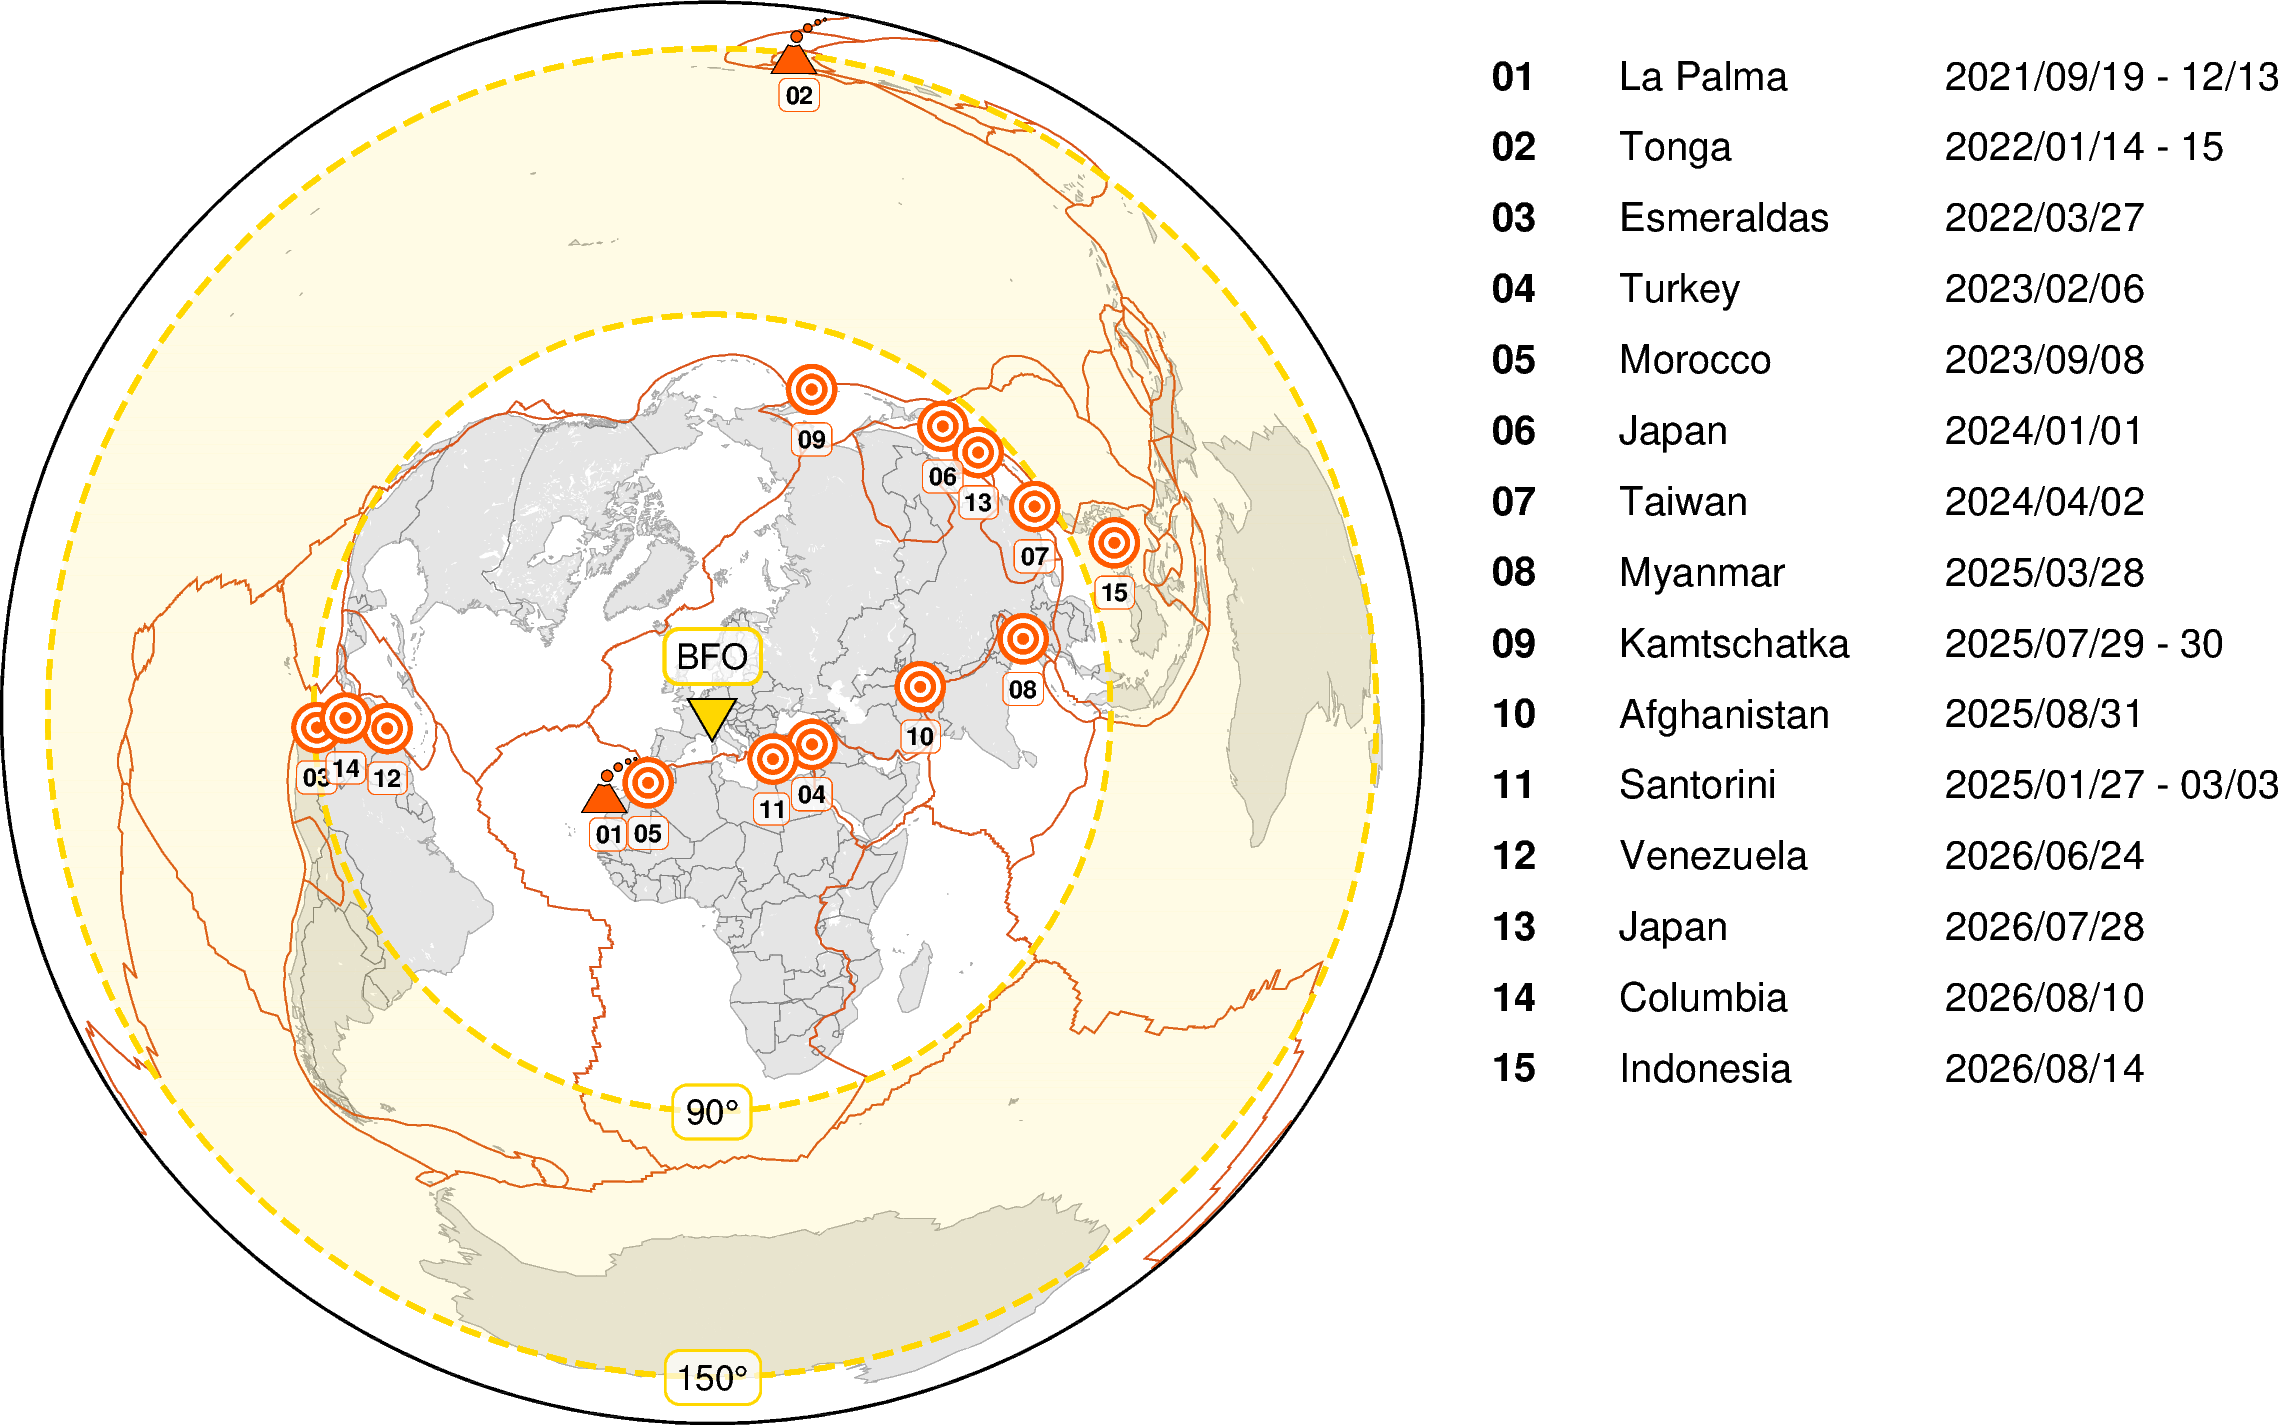
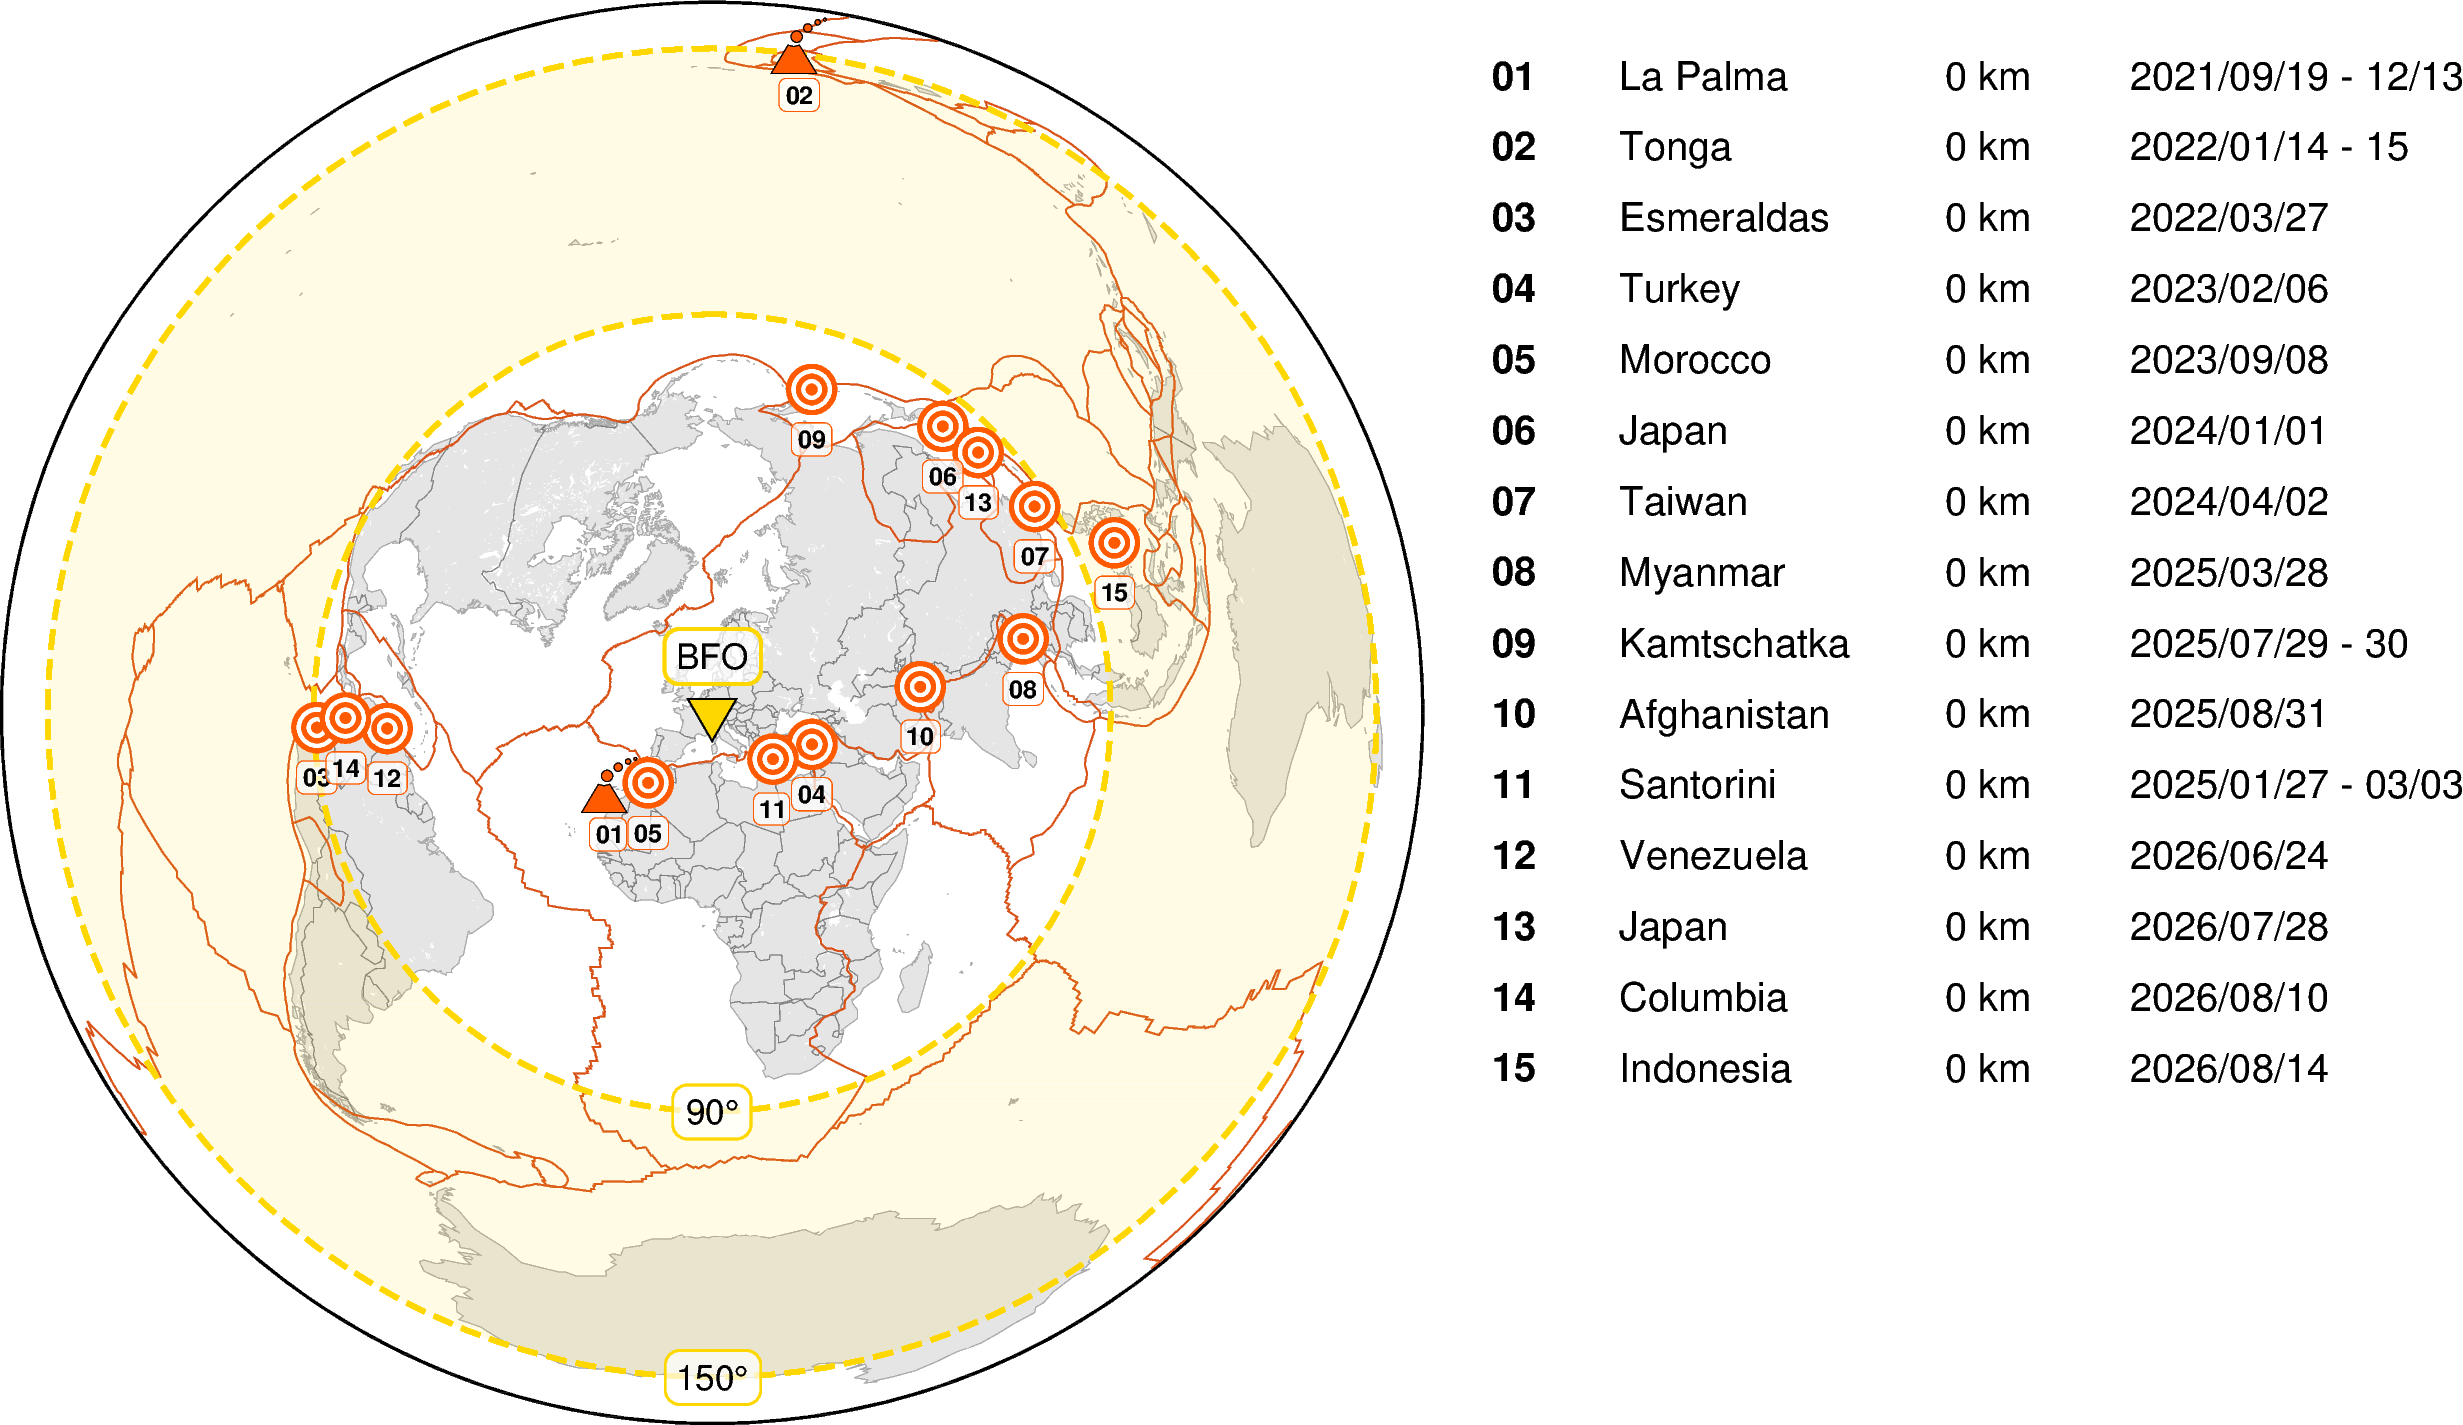
Add depth column

diff --git a/004_earthquakes_eruptions/00_overview_events_BFO.py b/004_earthquakes_eruptions/00_overview_events_BFO.py
@@ -108,6 +108,10 @@ df_events = pd.DataFrame(
             28.57, -20.545, -0.904, 37.166, 31.064, 37.23, 23.819, 22.01,
             52.512, 34.519, 36.42, 10.46, 32.682, 4.844, 8.310,
         ],
+        "depth": [
+            0, 0, 0, 0, 0, 0, 0, 0,
+            0, 0, 0, 0, 0, 0, 0,
+        ],
         "event_id": [
             "01", "02", "03", "04", "05", "06", "07", "08",
             "09", "10", "11", "12", "13", "14", "15",
@@ -246,13 +250,17 @@ if add_list == True:
 
         yoffset = -0.5 * (i_event + 1)
 
-        for text, xoffset, font in zip(
-            ["event_id", "location", "date"],
-            [0.5, 1.4, 3.7],
-            ["8p,1", "8p", "8p"],
+        for df_col, xoffset, font in zip(
+            ["event_id", "location", "depth", "date"],
+            [0.5, 1.4, 3.7, 5],
+            ["8p,1", "8p", "8p", "8p"],
         ):
+            text = df_events[df_col][i_event]
+            if df_col == "depth":
+                text = str(df_events[df_col][i_event]) + " km"
+
             fig.text(
-                text=df_events[text][i_event],
+                text=text,
                 offset=(xoffset, yoffset),
                 font=font,
                 **args_list,
@@ -261,9 +269,9 @@ if add_list == True:
 # -----------------------------------------------------------------------------
 # Show and save
 fig.show()  # method="external")
-# for ext in ["png"]:  # , "pdf", "eps"]:
-#     transparent = False
-#     if ext == "png" and add_list == False:
-#         transparent = True
-#     fig.savefig(fname=f"{path_out}/{fig_name}.{ext}", dpi=dpi_png, transparent=transparent)
+for ext in ["png"]:  # , "pdf", "eps"]:
+    transparent = False
+    if ext == "png" and add_list == False:
+        transparent = True
+    fig.savefig(fname=f"{path_out}/{fig_name}.{ext}", dpi=dpi_png, transparent=transparent)
 print(fig_name)
